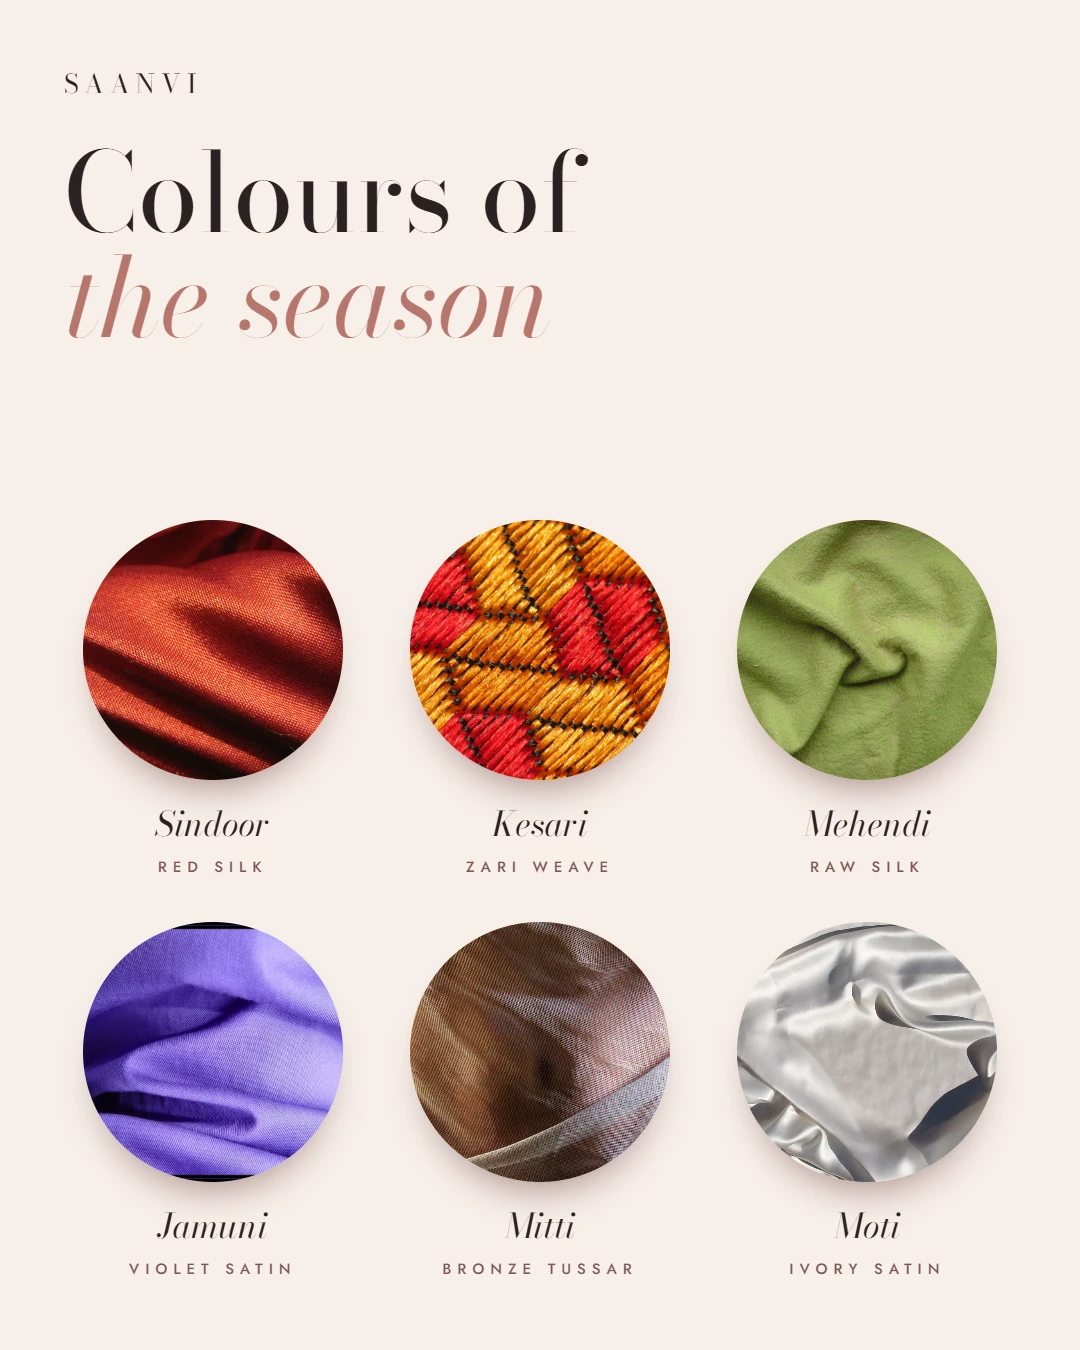
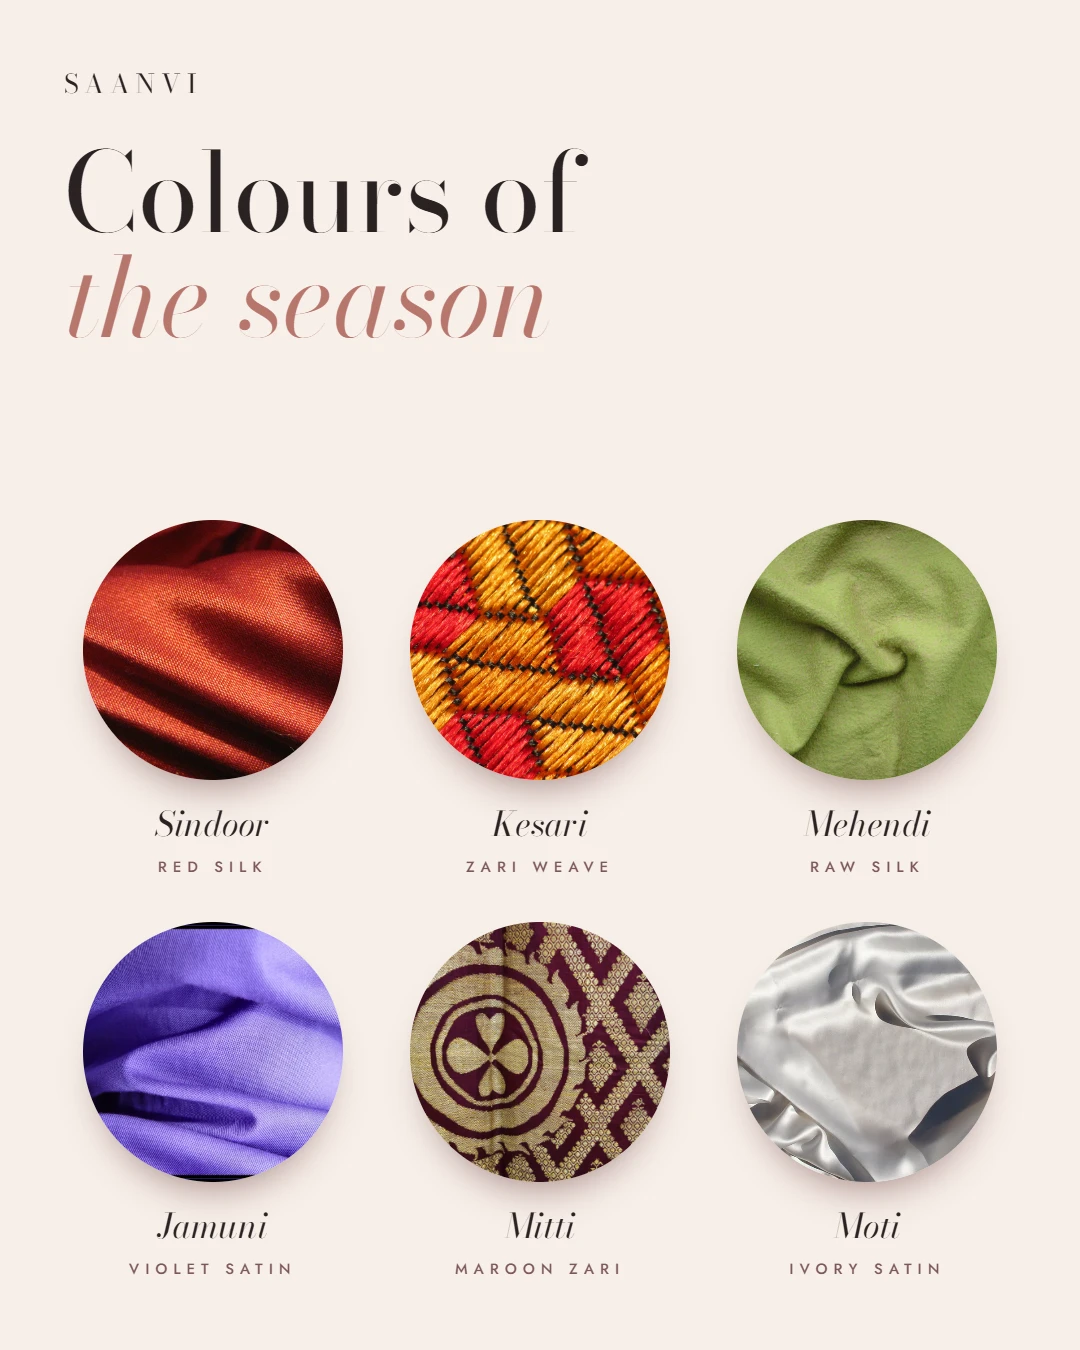
Use real handloom photography in five Saanvi Atelier posts
Four posts were built on another label's runway photos and one story on
a lingerie brand's product shoot, so they presented other designers'
garments as Saanvi's. They now use Chanderi, Kanchipuram and Banarasi
saree photography from Wikimedia Commons (CC0 / CC BY), and one fabric
swatch is replaced. Photo credits are regenerated to match.

Changed region(s): [[0.3667, 0.6844, 0.6417, 0.9022], [0.5194, 0.9333, 0.5806, 0.9644], [0.4278, 0.9333, 0.4889, 0.9644]]

diff --git a/docs/photo-credits.md b/docs/photo-credits.md
@@ -1,16 +1,16 @@
 # Photo credits
 
-The Graphic Design room's concept campaigns (Aranya Living, Kaelum Springs, Saanvi Atelier, Cortexa AI and the posters) are designed over these photographs, found through [Openverse](https://openverse.org). All are CC0, public domain or CC BY; the brands, copy and layouts are original.
+The Graphic Design room's concept campaigns (Aranya Living, Kaelum Springs, Saanvi Atelier, Cortexa AI and the posters) are designed over these photographs, found through [Openverse](https://openverse.org) and [Wikimedia Commons](https://commons.wikimedia.org). All are CC0, public domain or CC BY; the brands, copy and layouts are original.
 
 | Photo | Creator | Licence | Source |
 |---|---|---|---|
 | arne jacobsen, skodsborg strandvej 300, 1953-1956 | seier+seier | CC BY 2.0 | https://www.flickr.com/photos/94852245@N00/3815635634 |
 | The Kassandra Bay Hotel & Spa swimming pool at night | KB Collection Hotels & Resorts | CC BY 2.0 | https://www.flickr.com/photos/83603436@N07/7745142058 |
 | Schaffelbad bei Nacht | Therme Loipersdorf | CC BY 2.0 | https://www.flickr.com/photos/39721390@N02/3652911725 |
+| Modern Luxury Living Room Interior / Loft Apartment Architecture | Foto Miki Digital | CC PDM 1.0 | https://www.flickr.com/photos/96511847@N04/9202816086 |
 | Living Room | Jeremy Levine Design | CC BY 2.0 | https://www.flickr.com/photos/25186605@N04/3640110011 |
 | Living Room | Jeremy Levine Design | CC BY 2.0 | https://www.flickr.com/photos/25186605@N04/4329977835 |
 | two-story-home-lit-windows (Creative Commons) | vcmxnajg1 | CC BY 2.0 | https://www.flickr.com/photos/200871378@N03/53833977372 |
-| Modern Luxury Living Room Interior / Loft Apartment Architecture | Foto Miki Digital | CC PDM 1.0 | https://www.flickr.com/photos/96511847@N04/9202816086 |
 | Free modern kitchen interior image | Unknown | CC CC0 1.0 | https://www.rawpixel.com/image/5906894/photo-image-public-domain-kitchen-interior |
 | Sustainable Kitchen | Jeremy Levine Design | CC BY 2.0 | https://www.flickr.com/photos/25186605@N04/3240119298 |
 | Red Box at Night | Jeremy Levine Design | CC BY 2.0 | https://www.flickr.com/photos/25186605@N04/3640920662 |
@@ -46,16 +46,16 @@ The Graphic Design room's concept campaigns (Aranya Living, Kaelum Springs, Saan
 | OWL OSAKA Opening Party - 20120502【SUNSET】 | Mixtribe Photo | CC BY 2.0 | https://www.flickr.com/photos/24279287@N03/7138164329 |
 | Light and sound | sagesolar | CC BY 2.0 | https://www.flickr.com/photos/62356799@N06/15388034734 |
 | TechCrunch Disrupt Europe Hackathon | TechCrunch | CC BY 2.0 | https://www.flickr.com/photos/52522100@N07/10497595923 |
-| Stop Looking! Fashion Runway 2011 | henryjose | CC BY 2.0 | https://www.flickr.com/photos/60797425@N00/5531225163 |
-| Stop Looking! Fashion Runway 2011 | henryjose | CC BY 2.0 | https://www.flickr.com/photos/60797425@N00/5532601482 |
-| Stop Looking! Fashion Runway 2011 | henryjose | CC BY 2.0 | https://www.flickr.com/photos/60797425@N00/5532602242 |
-| Stop Looking! Fashion Runway 2011 | henryjose | CC BY 2.0 | https://www.flickr.com/photos/60797425@N00/5531779046 |
-| Buttercup collection for Esty Lingerie by Selivanoff. | SELIVANOFF | CC BY 2.0 | https://www.flickr.com/photos/29846986@N08/5800815941 |
 | Handloom weaving house | Aravindan Ganesan | CC BY 2.0 | https://www.flickr.com/photos/119742133@N04/20579941342 |
 | Silk tie in the abstract | Martin Cooper Ipswich | CC BY 2.0 | https://www.flickr.com/photos/92899351@N08/16696509105 |
 | Purple Fabric | Clearly Ambiguous | CC BY 2.0 | https://www.flickr.com/photos/84617037@N00/20349919 |
 | Red Fabric with Folds | shaire productions | CC BY 2.0 | https://www.flickr.com/photos/9822107@N08/4207544611 |
 | DesignM.ag Fabric Texture - 7 | designm.ag | CC BY 2.0 | https://www.flickr.com/photos/36281782@N03/3703785107 |
-| belly button | misselejane | CC BY 2.0 | https://www.flickr.com/photos/78158834@N08/8194925823 |
 | white silk 5 | jetheriot | CC BY 2.0 | https://www.flickr.com/photos/9198432@N02/2247737940 |
 | CL Society 198: Bride dress tail | francisco_osorio | CC BY 2.0 | https://www.flickr.com/photos/30330906@N04/6891355075 |
+| Chanderi Silk Sari outside a village home in Pranpur. (7045778685) | India Untravelled from India | CC BY 2.0 | https://commons.wikimedia.org/wiki/File:Chanderi_Silk_Sari_outside_a_village_home_in_Pranpur._(7045778685).jpg |
+| Silk saree on the making at Kanchipuram (7642281054) | Kamal Venkit | CC BY 2.0 | https://commons.wikimedia.org/wiki/File:Silk_saree_on_the_making_at_Kanchipuram_(7642281054).jpg |
+| Shawl, Varanasi, Uttar Pradesh, India, view 2, late 19th to early 20th century, silk, gold thread - Textile Museum of Canada - DSC00969 | Daderot | CC0 | https://commons.wikimedia.org/wiki/File:Shawl,_Varanasi,_Uttar_Pradesh,_India,_view_2,_late_19th_to_early_20th_century,_silk,_gold_thread_-_Textile_Museum_of_Canada_-_DSC00969.JPG |
+| Sari from India, Varanasi, 18th century, Honolulu Museum of Art 10911.1 | Hiart | CC0 | https://commons.wikimedia.org/wiki/File:Sari_from_India,_Varanasi,_18th_century,_Honolulu_Museum_of_Art_10911.1.JPG |
+| Sari, Varanasi, Uttar Pradesh, India, 1960s, silk, gold thread, satin - Textile Museum of Canada - DSC00943 | Daderot | CC0 | https://commons.wikimedia.org/wiki/File:Sari,_Varanasi,_Uttar_Pradesh,_India,_1960s,_silk,_gold_thread,_satin_-_Textile_Museum_of_Canada_-_DSC00943.JPG |
+| Saree29 | Deepana | CC0 | https://commons.wikimedia.org/wiki/File:Saree29.jpg |
